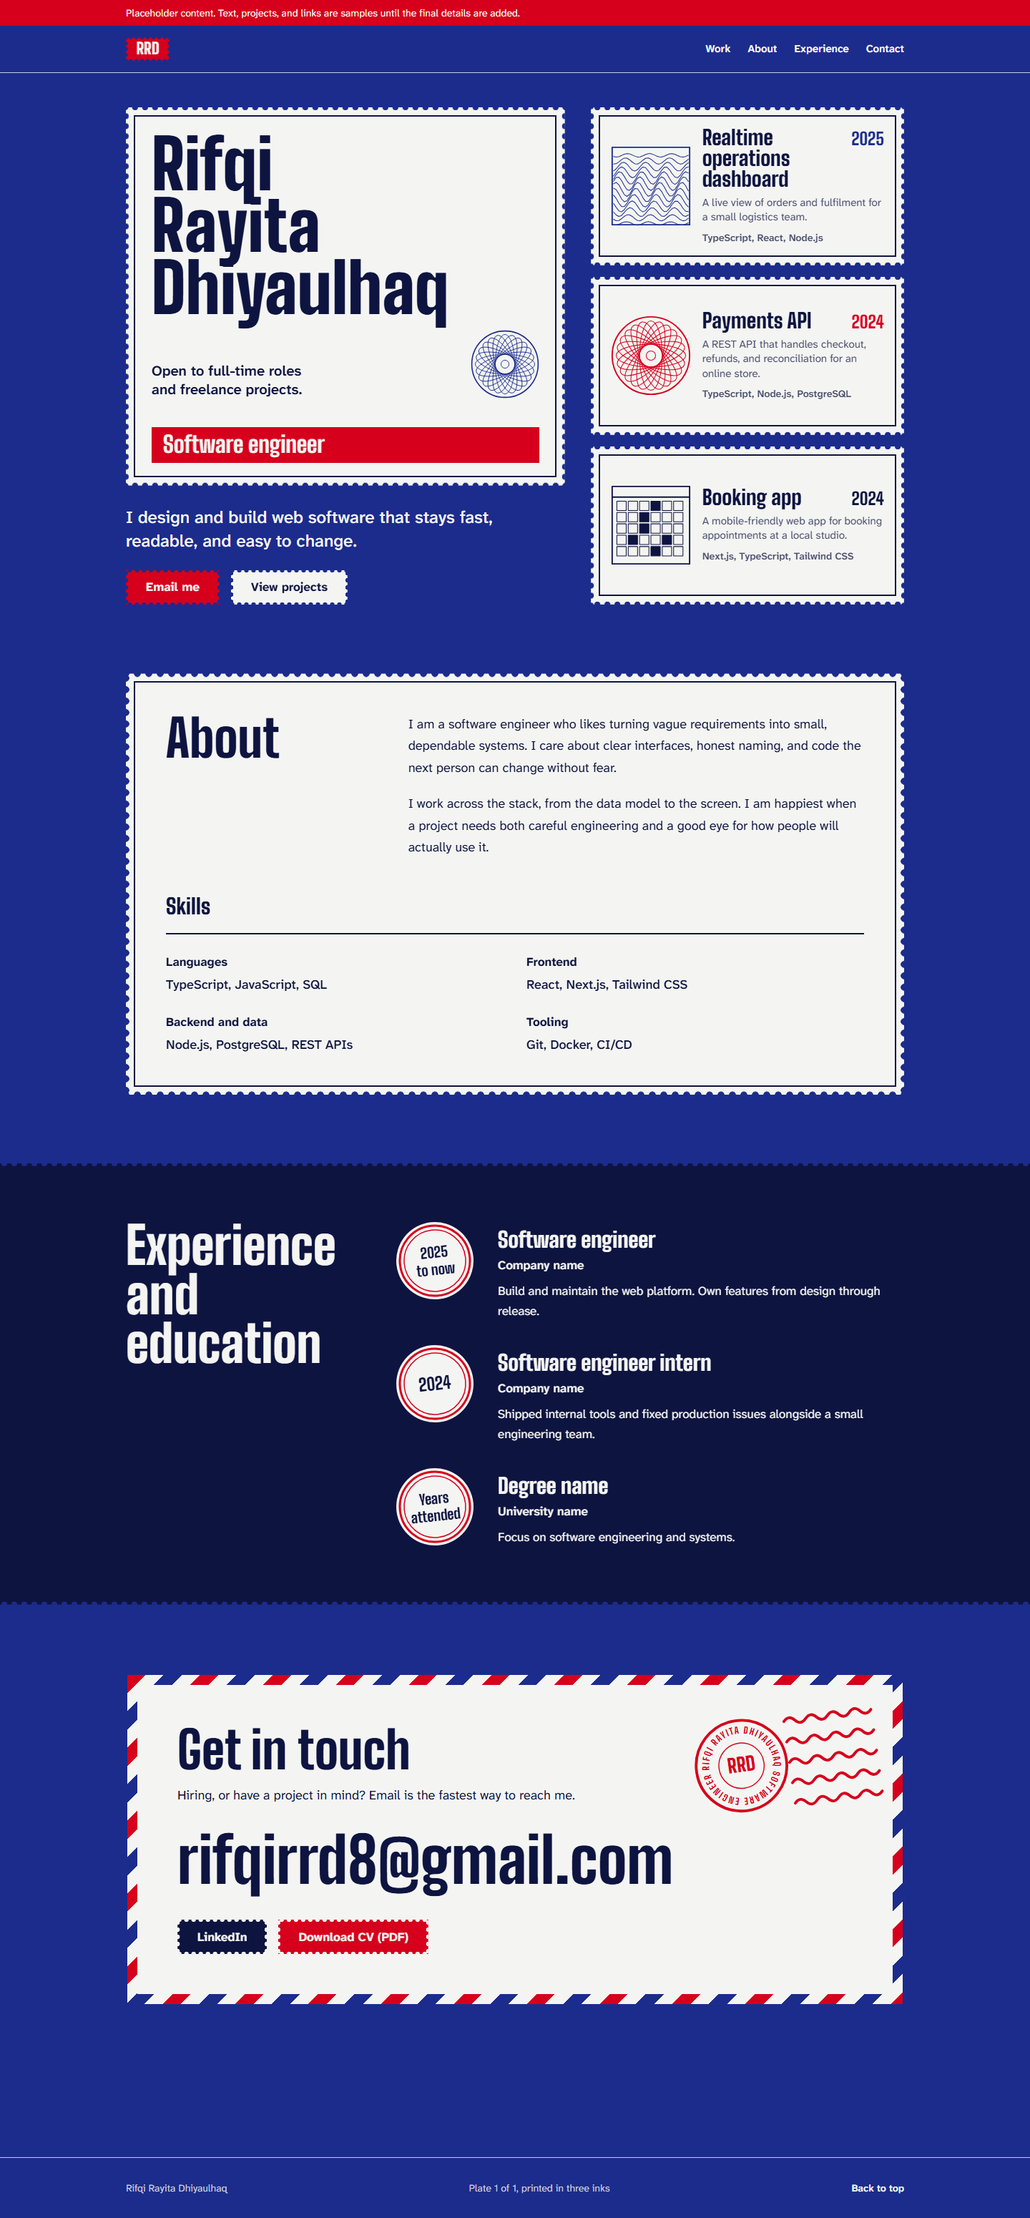
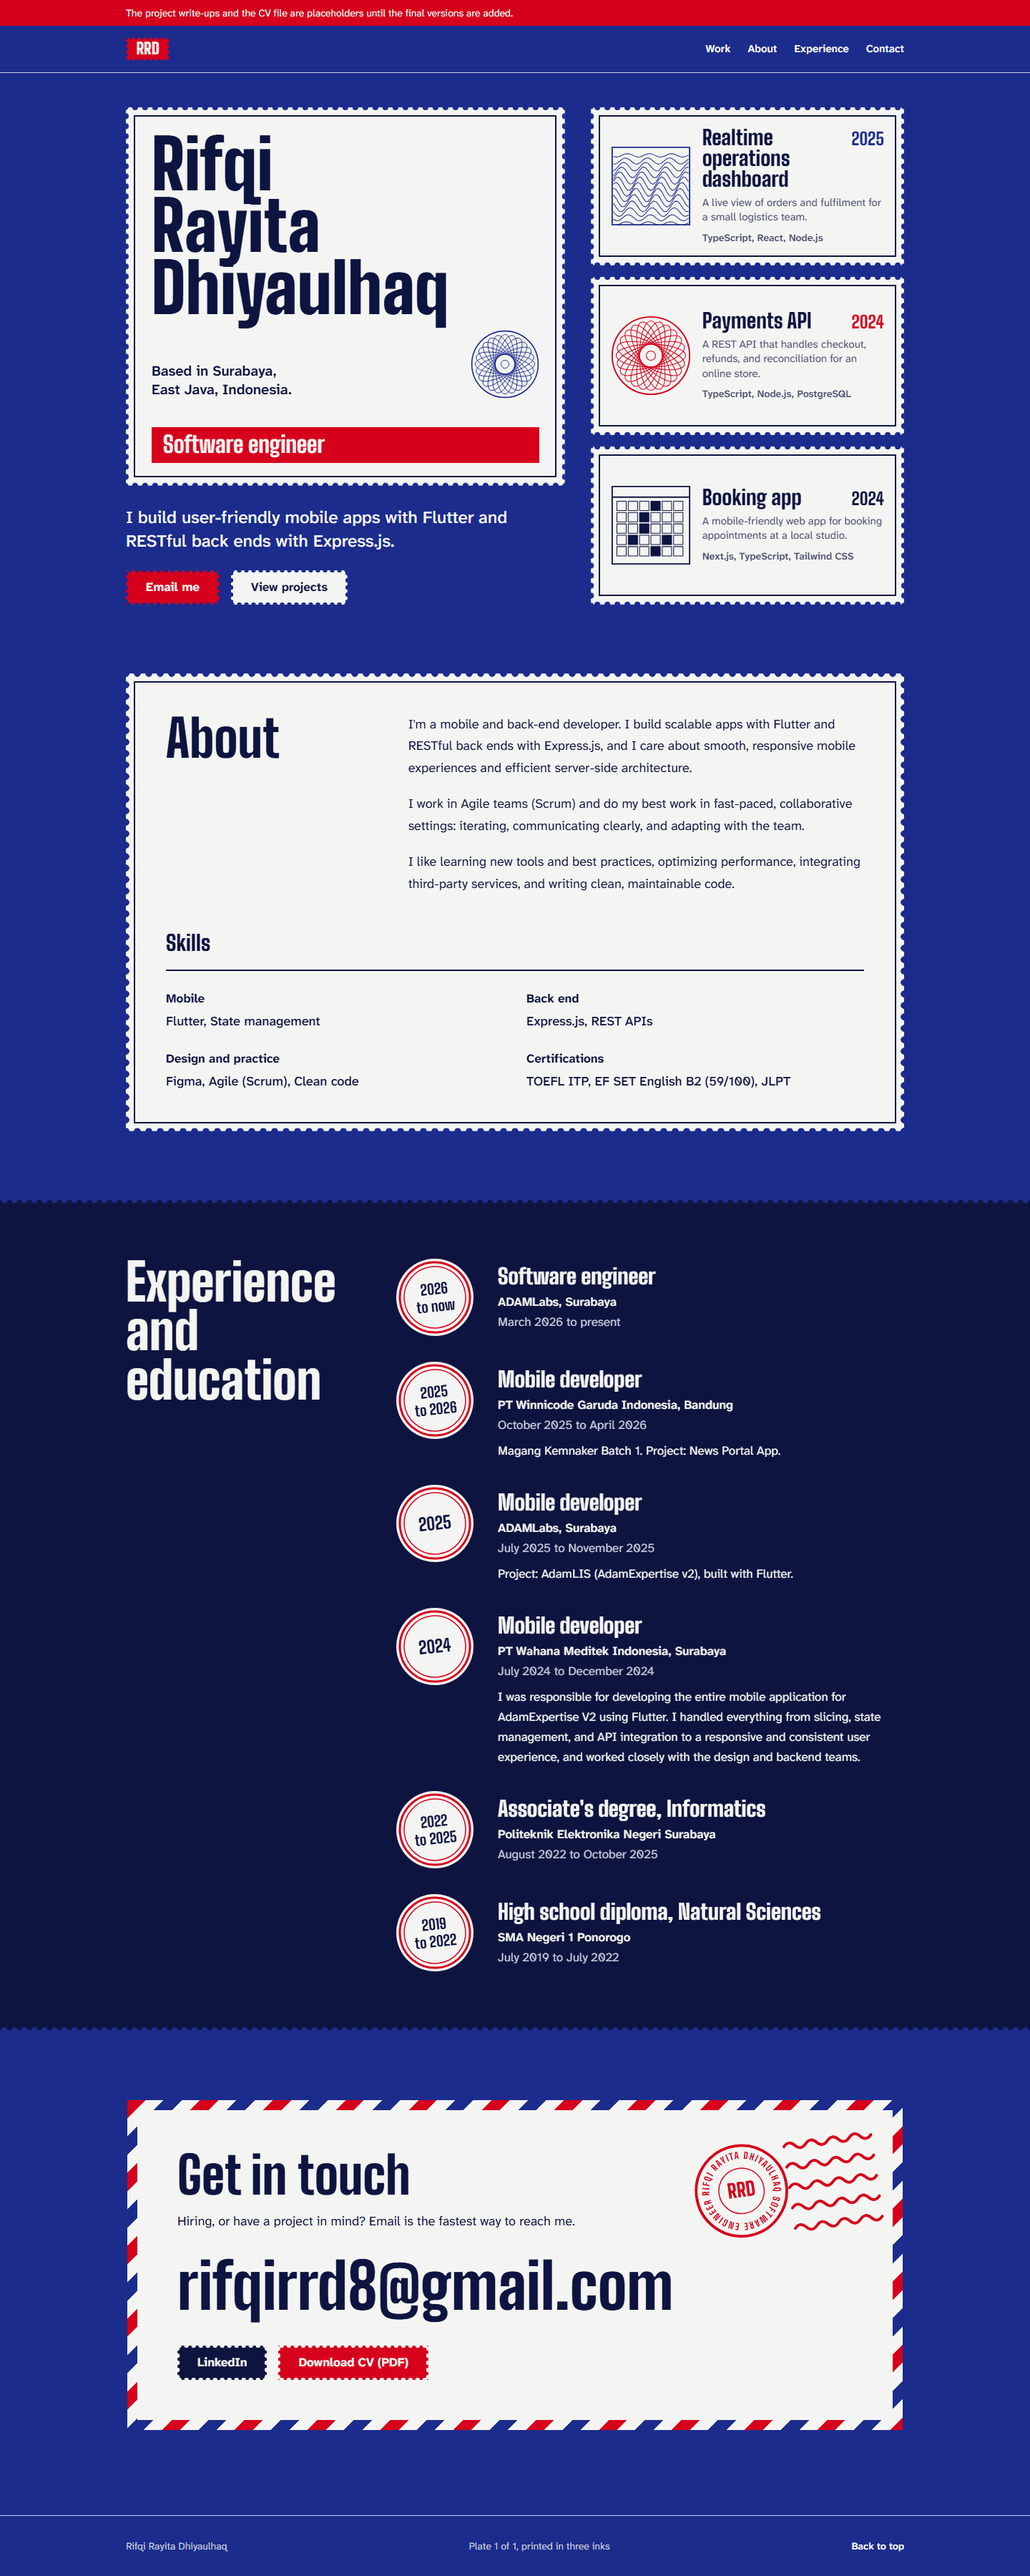
feat: edit biodata

diff --git a/content/experience.ts b/content/experience.ts
@@ -1,28 +1,51 @@
 import type { TimelineEntry } from "@/lib/types";
 
-// TODO: replace with the real work and education history.
+// Source: the user's LinkedIn profile PDF. Newest first.
 export const timeline: TimelineEntry[] = [
   {
     kind: "work",
-    period: "2025 to now",
+    period: "2026 to now",
+    dates: "March 2026 to present",
     title: "Software engineer",
-    organization: "Company name",
-    description:
-      "Build and maintain the web platform. Own features from design through release.",
+    organization: "ADAMLabs, Surabaya",
+  },
+  {
+    kind: "work",
+    period: "2025 to 2026",
+    dates: "October 2025 to April 2026",
+    title: "Mobile developer",
+    organization: "PT Winnicode Garuda Indonesia, Bandung",
+    description: "Magang Kemnaker Batch 1. Project: News Portal App.",
+  },
+  {
+    kind: "work",
+    period: "2025",
+    dates: "July 2025 to November 2025",
+    title: "Mobile developer",
+    organization: "ADAMLabs, Surabaya",
+    description: "Project: AdamLIS (AdamExpertise v2), built with Flutter.",
   },
   {
     kind: "work",
     period: "2024",
-    title: "Software engineer intern",
-    organization: "Company name",
+    dates: "July 2024 to December 2024",
+    title: "Mobile developer",
+    organization: "PT Wahana Meditek Indonesia, Surabaya",
     description:
-      "Shipped internal tools and fixed production issues alongside a small engineering team.",
+      "I was responsible for developing the entire mobile application for AdamExpertise V2 using Flutter. I handled everything from slicing, state management, and API integration to a responsive and consistent user experience, and worked closely with the design and backend teams.",
   },
   {
     kind: "education",
-    period: "Years attended",
-    title: "Degree name",
-    organization: "University name",
-    description: "Focus on software engineering and systems.",
+    period: "2022 to 2025",
+    dates: "August 2022 to October 2025",
+    title: "Associate's degree, Informatics",
+    organization: "Politeknik Elektronika Negeri Surabaya",
+  },
+  {
+    kind: "education",
+    period: "2019 to 2022",
+    dates: "July 2019 to July 2022",
+    title: "High school diploma, Natural Sciences",
+    organization: "SMA Negeri 1 Ponorogo",
   },
 ];

diff --git a/content/profile.ts b/content/profile.ts
@@ -1,21 +1,23 @@
 import type { Profile } from "@/lib/types";
 
-// TODO: replace every placeholder below with final copy.
-// Set `placeholderContent` to false to remove the notice bar at the top of the site.
+// Name, role, contact, location, summary, and skills come from the user's LinkedIn profile PDF.
+// Still placeholder: the CV file and the project write-ups (see content/projects.ts).
+// Set `placeholderContent` to false to remove the notice bar once those are replaced.
 export const profile: Profile = {
   name: "Rifqi Rayita Dhiyaulhaq",
   role: "Software engineer",
   headline:
-    "I design and build web software that stays fast, readable, and easy to change.",
-  availability: "Open to full-time roles and freelance projects.",
+    "I build user-friendly mobile apps with Flutter and RESTful back ends with Express.js.",
+  location: "Based in Surabaya, East Java, Indonesia.",
   email: "rifqirrd8@gmail.com",
-  // TODO: confirm this is the real LinkedIn profile URL.
-  linkedin: "https://www.linkedin.com/in/rifqi-rayita-dhiyaulhaq",
+  linkedin:
+    "https://www.linkedin.com/in/mobiledeveloper-rifqi-rayita-dhiyaulhaq",
   // TODO: replace public/cv/rifqi-rayita-dhiyaulhaq-cv.pdf with the real CV.
   cvPath: "/cv/rifqi-rayita-dhiyaulhaq-cv.pdf",
   about: [
-    "I am a software engineer who likes turning vague requirements into small, dependable systems. I care about clear interfaces, honest naming, and code the next person can change without fear.",
-    "I work across the stack, from the data model to the screen. I am happiest when a project needs both careful engineering and a good eye for how people will actually use it.",
+    "I'm a mobile and back-end developer. I build scalable apps with Flutter and RESTful back ends with Express.js, and I care about smooth, responsive mobile experiences and efficient server-side architecture.",
+    "I work in Agile teams (Scrum) and do my best work in fast-paced, collaborative settings: iterating, communicating clearly, and adapting with the team.",
+    "I like learning new tools and best practices, optimizing performance, integrating third-party services, and writing clean, maintainable code.",
   ],
   placeholderContent: true,
 };

diff --git a/content/skills.ts b/content/skills.ts
@@ -1,9 +1,12 @@
 import type { SkillGroup } from "@/lib/types";
 
-// TODO: adjust to the skills that should actually be shown.
+// Source: the user's LinkedIn profile PDF (summary, top skills, certifications).
 export const skills: SkillGroup[] = [
-  { label: "Languages", items: ["TypeScript", "JavaScript", "SQL"] },
-  { label: "Frontend", items: ["React", "Next.js", "Tailwind CSS"] },
-  { label: "Backend and data", items: ["Node.js", "PostgreSQL", "REST APIs"] },
-  { label: "Tooling", items: ["Git", "Docker", "CI/CD"] },
+  { label: "Mobile", items: ["Flutter", "State management"] },
+  { label: "Back end", items: ["Express.js", "REST APIs"] },
+  { label: "Design and practice", items: ["Figma", "Agile (Scrum)", "Clean code"] },
+  {
+    label: "Certifications",
+    items: ["TOEFL ITP", "EF SET English B2 (59/100)", "JLPT"],
+  },
 ];

diff --git a/components/sections/Experience.tsx b/components/sections/Experience.tsx
@@ -26,7 +26,10 @@ export function Experience() {
               <div className="pt-2">
                 <h3 className="heading-display text-3xl">{entry.title}</h3>
                 <p className="mt-1 font-semibold">{entry.organization}</p>
-                <p className="mt-2 max-w-[56ch]">{entry.description}</p>
+                <p className="text-paper-soft">{entry.dates}</p>
+                {entry.description ? (
+                  <p className="mt-2 max-w-[56ch]">{entry.description}</p>
+                ) : null}
               </div>
             </li>
           ))}

diff --git a/lib/types.ts b/lib/types.ts
@@ -22,9 +22,10 @@ export type Project = {
 export type TimelineEntry = {
   kind: "work" | "education";
   period: string;
+  dates: string;
   title: string;
   organization: string;
-  description: string;
+  description?: string;
 };
 
 export type SkillGroup = {
@@ -36,7 +37,7 @@ export type Profile = {
   name: string;
   role: string;
   headline: string;
-  availability: string;
+  location: string;
   email: string;
   linkedin: string;
   cvPath: string;

diff --git a/components/layout/PlaceholderNotice.tsx b/components/layout/PlaceholderNotice.tsx
@@ -4,8 +4,8 @@ export function PlaceholderNotice() {
   return (
     <div className="bg-carmine text-sm text-paper">
       <Container className="py-2">
-        Placeholder content. Text, projects, and links are samples until the
-        final details are added.
+        The project write-ups and the CV file are placeholders until the final
+        versions are added.
       </Container>
     </div>
   );

diff --git a/components/sections/Opening.tsx b/components/sections/Opening.tsx
@@ -22,7 +22,7 @@ export function Opening() {
                 </span>
               ))}
             </h1>
-            <p className="definitive__note">{profile.availability}</p>
+            <p className="definitive__note">{profile.location}</p>
             <Vignette
               motif="rosette"
               className="definitive__art print-ultra"

diff --git a/PRODUCT.md b/PRODUCT.md
@@ -16,7 +16,7 @@ A personal website for Rifqi Rayita Dhiyaulhaq, a software engineer, whose purpo
 
 ## Positioning
 
-Confirmed: the thing to be remembered is a full-stack engineer who is tidy and dependable, work that is readable, easy to maintain, and complete from the data model to the screen. The specific, differentiating proof behind that claim (which systems, which outcomes) is not yet supplied and stays open until the real projects arrive.
+Chosen in the first interview: to be remembered as a tidy, dependable engineer whose work is readable and easy to maintain. The LinkedIn profile supplied afterwards fixes the factual basis: a mobile developer (Flutter) who also builds REST back ends (Express.js), working in Agile (Scrum) teams, currently a software engineer at ADAMLabs in Surabaya. The earlier "full-stack, from the data model to the screen" wording was an assumption and is superseded by this; do not claim web front-end or other stacks the profile does not state. The differentiating proof (outcomes, metrics) is still not supplied.
 
 ## Operating Context
 
@@ -29,17 +29,19 @@ Visitors reach the site from outside links and often compare it against a CV or 
 - Stack is fixed by the existing codebase: Next.js 16.4.3 (App Router, `cacheComponents` and `partialPrefetching` enabled), React 19.3, Tailwind CSS 4, TypeScript. No `new Date()`/`Date.now()`/`Math.random()` during render; no `dynamicParams` segment config; `error.tsx` takes a `retry` prop. Read `node_modules/next/dist/docs/` before changing framework-level code (see AGENTS.md).
 - All site content lives in `content/*.ts` and `lib/seo.ts`; the visual layer lives in `app/` and `components/`.
 - Terminology: the person is "Rifqi Rayita Dhiyaulhaq"; the short mark is "RRD".
-- Undecided: the real LinkedIn profile URL (the current one is a guess), the production domain (`NEXT_PUBLIC_SITE_URL`), and whether to ship a dark mode at all.
+- Undecided: the production domain (`NEXT_PUBLIC_SITE_URL`), the real project write-ups, whether the two AdamExpertise v2 mentions on the profile (ADAMLabs 2025 and PT Wahana Meditek 2024) describe one project or two, and whether to show GitHub.
 
 ## Brand Commitments
 
 - Name: Rifqi Rayita Dhiyaulhaq, software engineer.
-- Public contact: `rifqirrd8@gmail.com` and LinkedIn only, no other social accounts.
+- Public contact: `rifqirrd8@gmail.com` and LinkedIn (`https://www.linkedin.com/in/mobiledeveloper-rifqi-rayita-dhiyaulhaq`, confirmed from the profile PDF) only. The profile also lists a GitHub, github.com/rifqirayita8; the user chose LinkedIn only, so it is not shown unless they ask.
 - No visual commitments have been made binding.
 
 ## Evidence on Hand
 
-The user states they have real projects, real work and education history, a publishable profile photo, and a real CV. None of these are in the repository yet. Everything currently shown (projects, employers, dates, skills, the "open to full-time roles and freelance projects" line, the CV PDF) is synthetic placeholder, flagged by the placeholder notice bar. Future work must not invent real-looking projects, employers, metrics, or testimonials, and must make the swap to real material easy when the user supplies it.
+Real, from the user's LinkedIn profile PDF (supplied in the conversation): name, headline, summary, location (Surabaya), work history (ADAMLabs 2026 to now and 2025; PT Winnicode Garuda Indonesia 2025 to 2026; PT Wahana Meditek Indonesia 2024), education (Politeknik Elektronika Negeri Surabaya; SMA Negeri 1 Ponorogo), top skills, and certifications (TOEFL ITP, EF SET English B2 59/100, JLPT with no level stated). Named projects on the profile: News Portal App (Winnicode) and AdamLIS / AdamExpertise v2 (Flutter). Two webinar moderator roles are listed but not shown on the site.
+
+Still synthetic placeholder: the three project write-ups (titles, problems, outcomes) and the CV PDF, flagged by the placeholder notice bar. The user also says they have a publishable profile photo and a real CV that are not in the repository. No availability status is stated, so none is shown. Future work must not invent projects, employers, metrics, outcomes, or testimonials, and must not add claims the profile does not make.
 
 ## Product Principles
 
